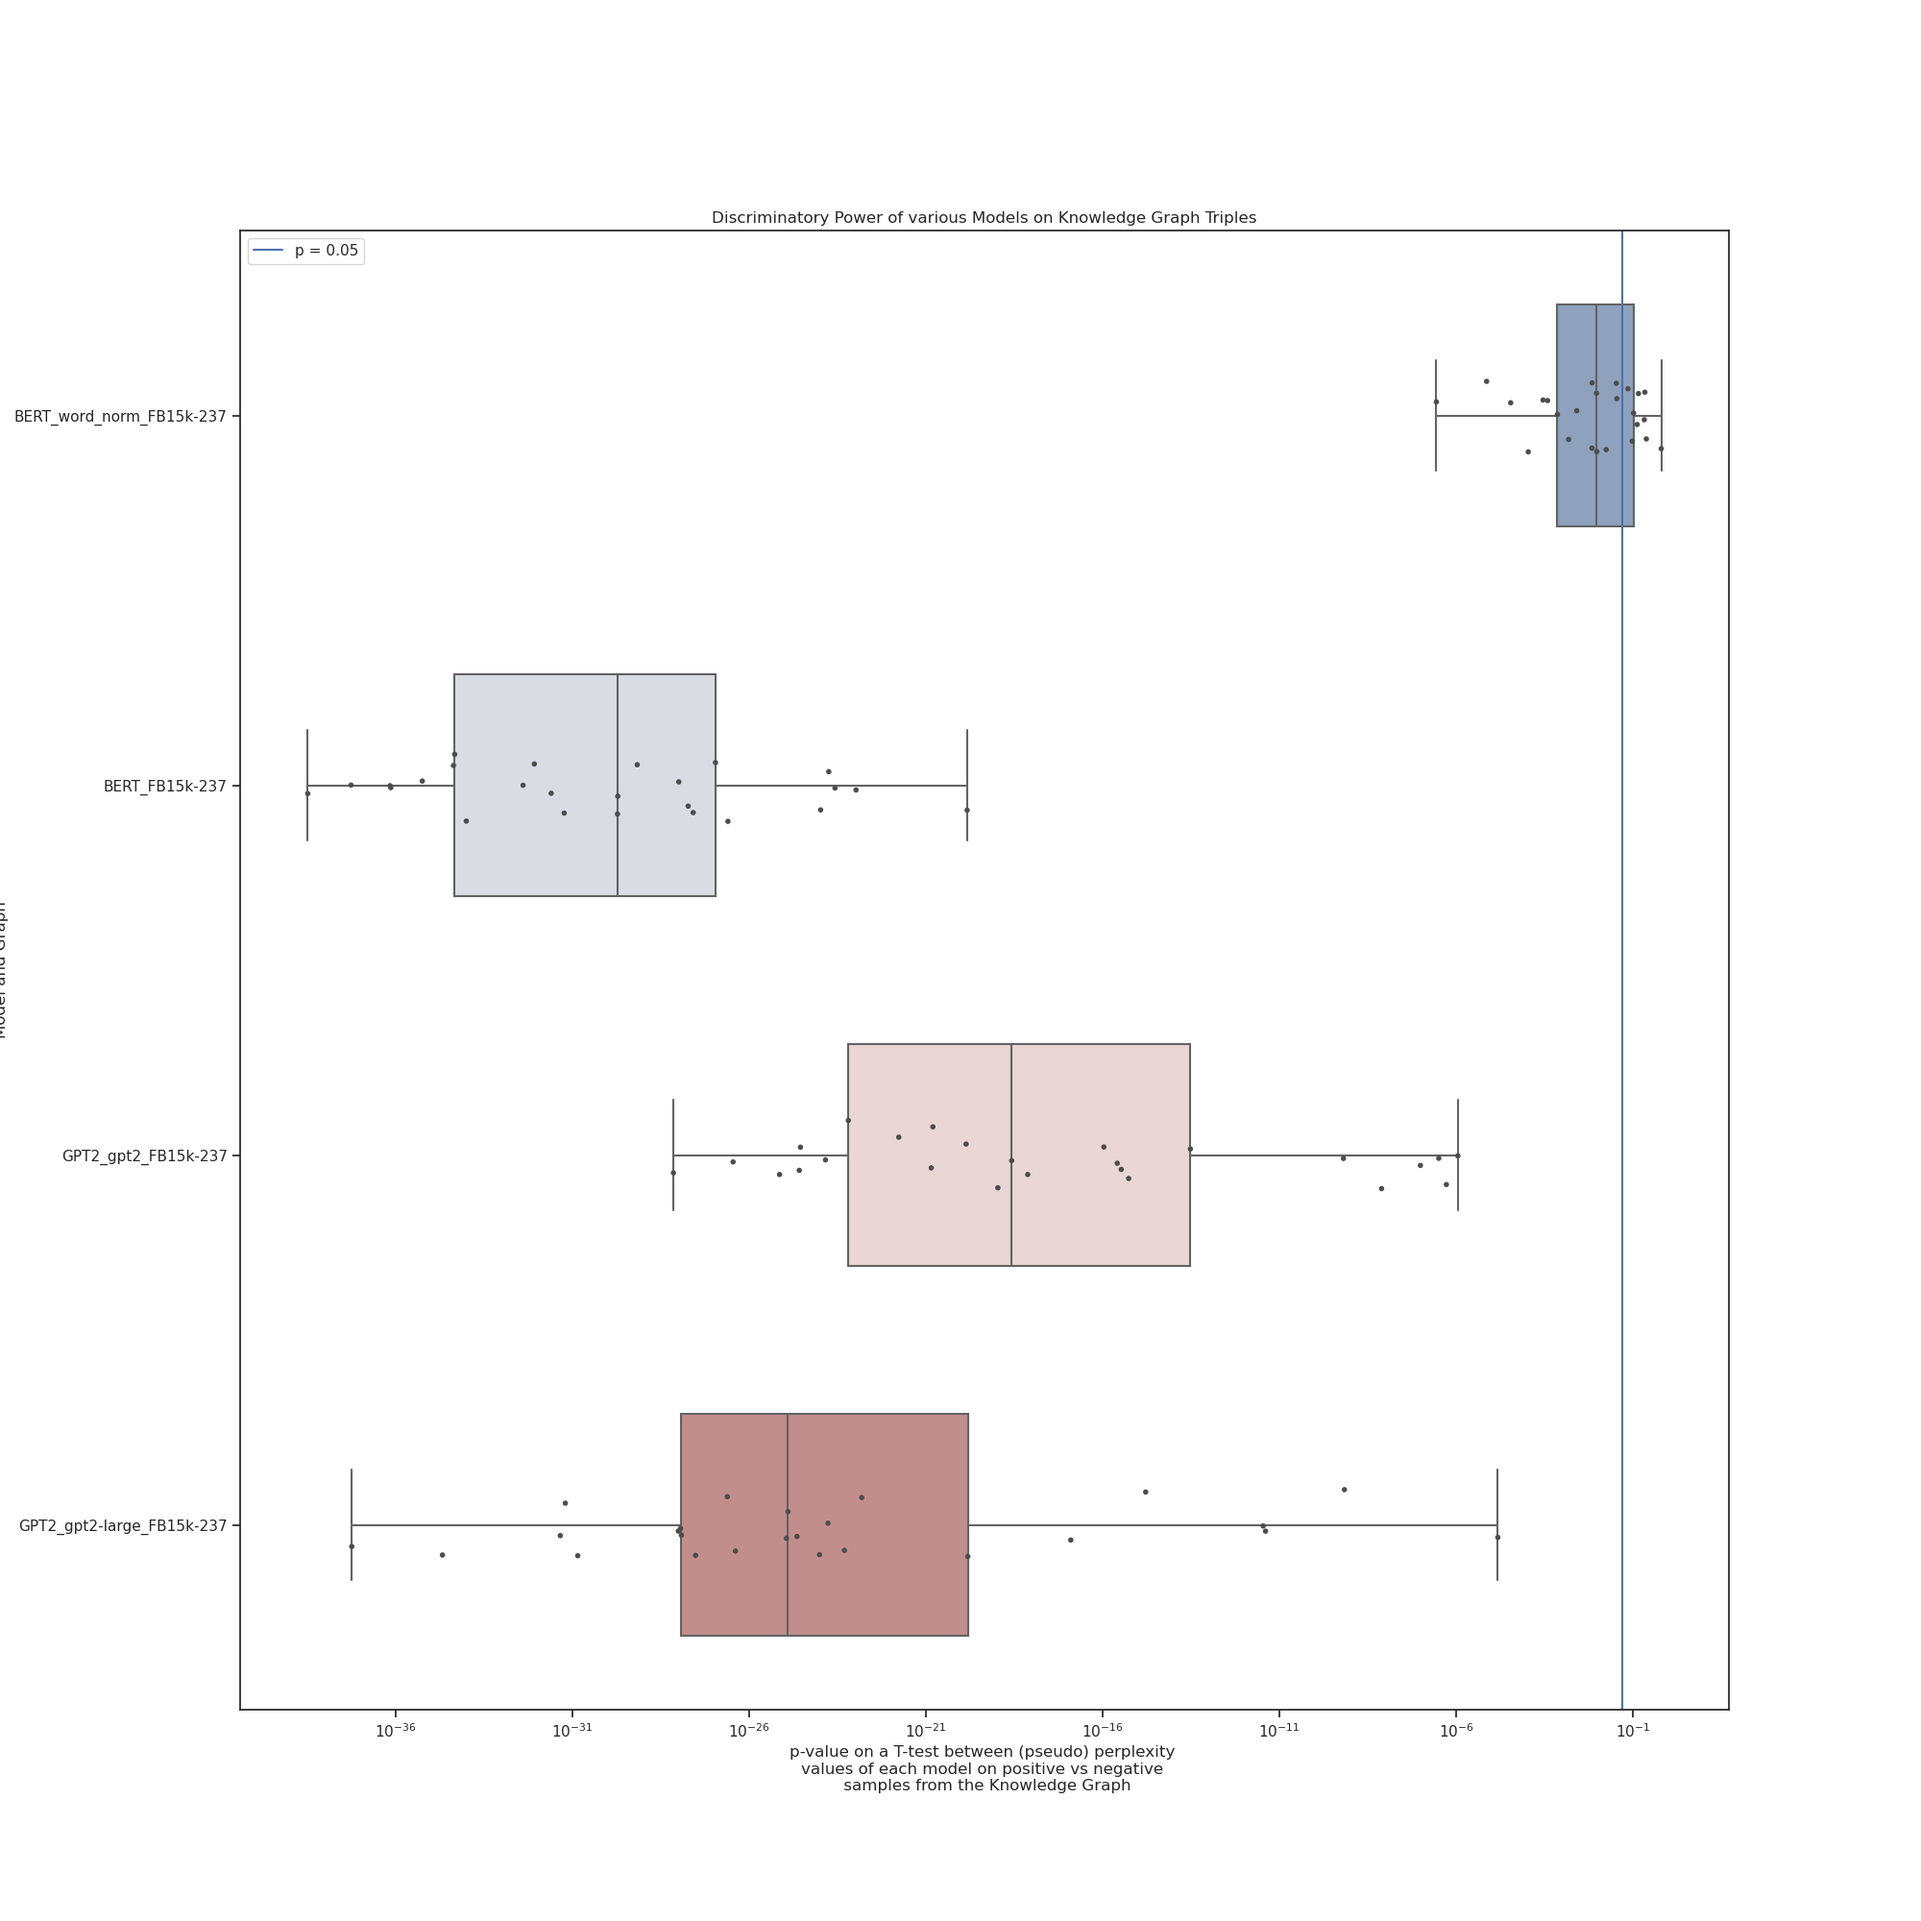
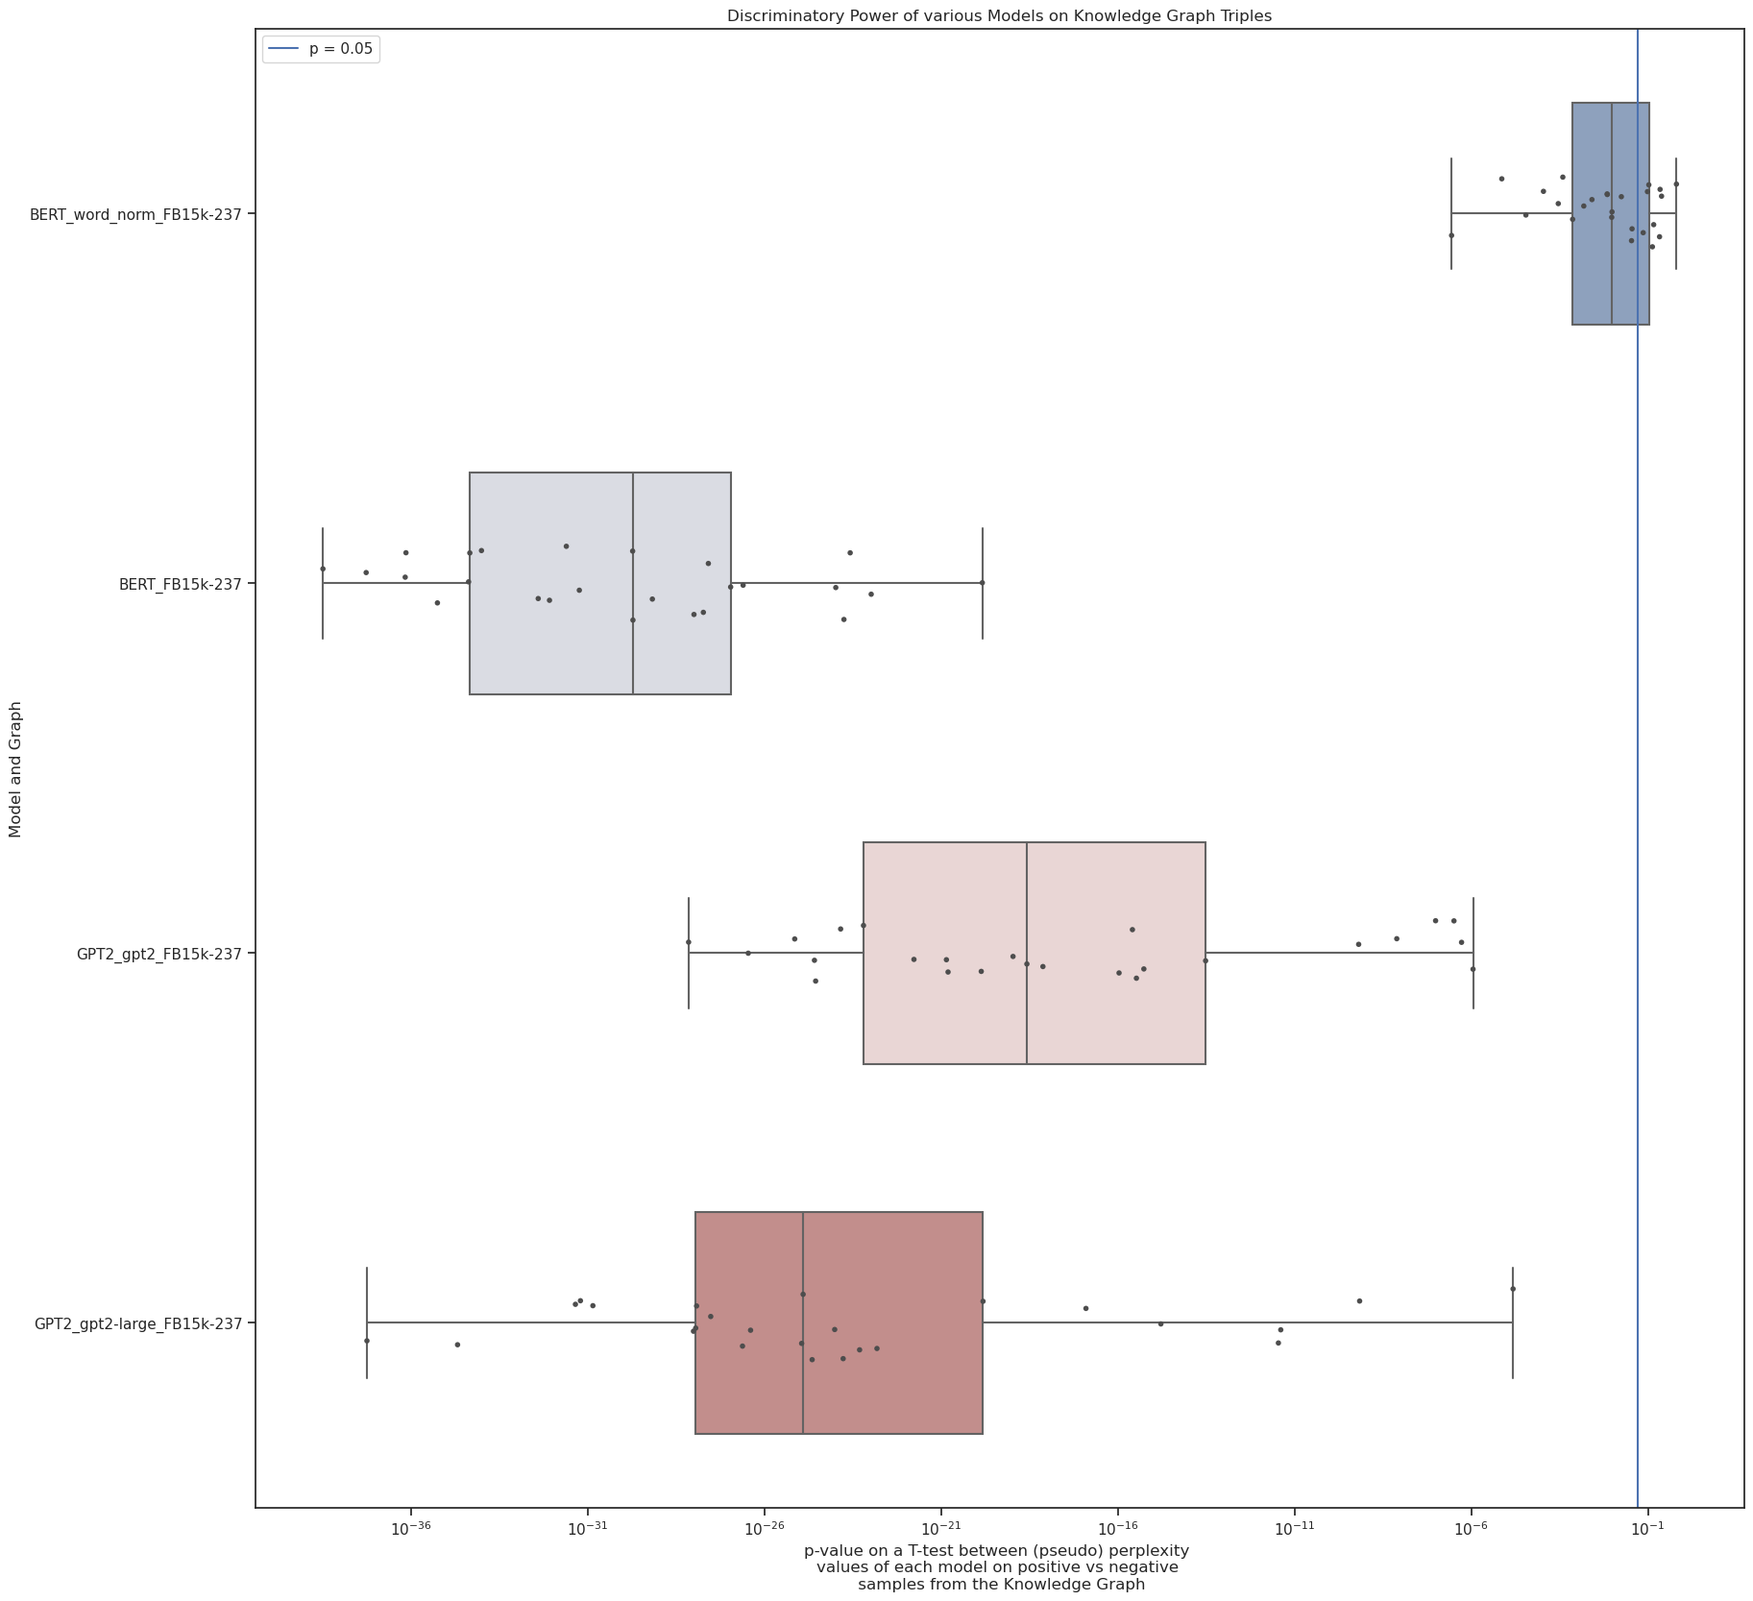
tight

diff --git a/plot_results.py b/plot_results.py
@@ -1,4 +1,4 @@
 import utils
 
 f = utils.plot_results([("BERT_word_norm", "FB15k-237"),('BERT', 'FB15k-237'), ('GPT2_gpt2', 'FB15k-237'), ('GPT2_gpt2-large', 'FB15k-237')], 25, 1000)
-f.savefig('results_1_long.png')
+f.savefig('results_1_long.png', bbox_inches="tight")
